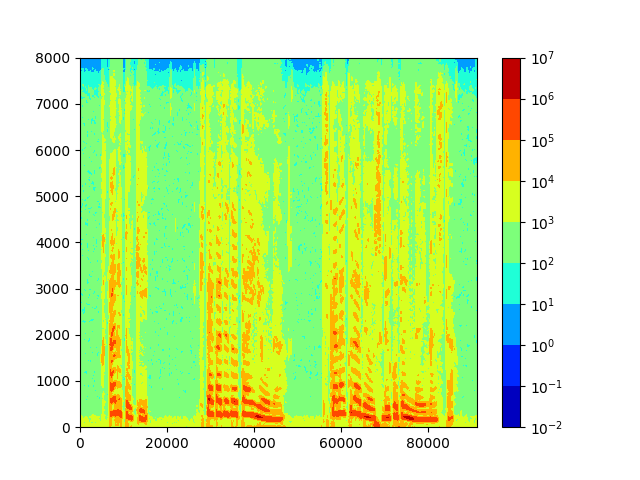
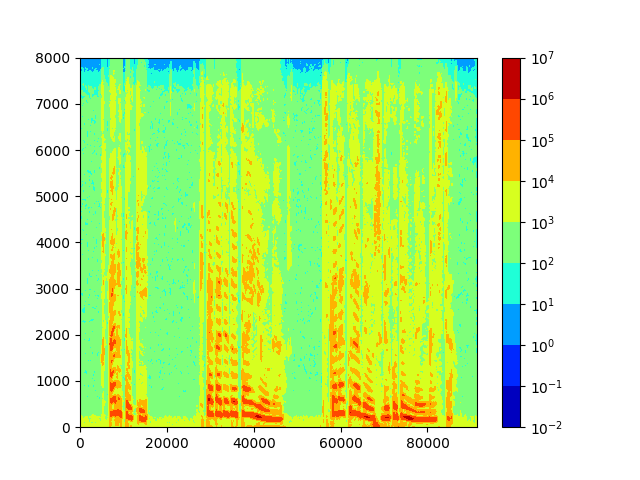
good exp2

diff --git a/dgt_exp2.py b/dgt_exp2.py
@@ -6,12 +6,12 @@ import matplotlib.ticker as ticker
 import sys
 
 # sample: wav
-w = mydgt.hammig_w(500)
+w = mydgt.hammig_w(200)
 plt.plot(w)
 plt.show()
 
 a = 50
-b = 25
+b = 50
 start = 0
 end = sys.maxsize    # ファイル全体
 
@@ -46,8 +46,8 @@ X_dwdt = dgt3.dgt(x, dw)
 new_X = np.zeros((M, N), dtype=np.complex)
 for m in range(M):
     for n in range(N):
-        n_new = n + (np.abs((X_tw[m, n] / X[m, n]).real) / a)
-        m_new = m - (np.abs((X_dwdt[m, n] / X[m, n]).imag) / b)
+        n_new = n + (np.abs((X_tw[m, n] / X[m, n]).real))
+        m_new = m - (np.abs((X_dwdt[m, n] / X[m, n]).imag))
         print(n_new, m_new)
         if int(n_new) >= N or int(m_new) >= M:
             continue

diff --git a/dgt_exp1_isolator.py b/dgt_exp1_isolator.py
@@ -15,10 +15,12 @@ end = sys.maxsize    # ファイル全体
 
 # 合成音声を読み込み
 x_mixed, fs = mydgt.load_wav("mixed_wave.wav", start, end)
+x1 = np.append(x_mixed, np.zeros(b - (len(x_mixed) % b)))               # a, b で割り切れる数まで0埋め
 L_mixed = len(x_mixed)
 
 # 分離したい音声を読み込み
 x_target, fs = mydgt.load_wav("M1GIM01.wav", start, end)
+x_target = np.append(x_target, np.zeros(b - (len(x_target) % b)))       # a, b で割り切れる数まで0埋め
 L_target = len(x_target)
 
 if L_mixed > L_target:

diff --git a/dgt_exp1_mixer.py b/dgt_exp1_mixer.py
@@ -15,7 +15,9 @@ end = sys.maxsize    # ファイル全体
 
 # 音声を読み込み
 x1, fs1 = mydgt.load_wav("F1AES2_parts.wav", start, end)
+x1 = np.append(x1, np.zeros(b - (len(x1) % b)))               # a, b で割り切れる数まで0埋め
 x2, fs2 = mydgt.load_wav("M1GIM01.wav", start, end)
+x2 = np.append(x2, np.zeros(b - (len(x2) % b)))               # a, b で割り切れる数まで0埋め
 L1 = len(x1)
 L2 = len(x2)
 
